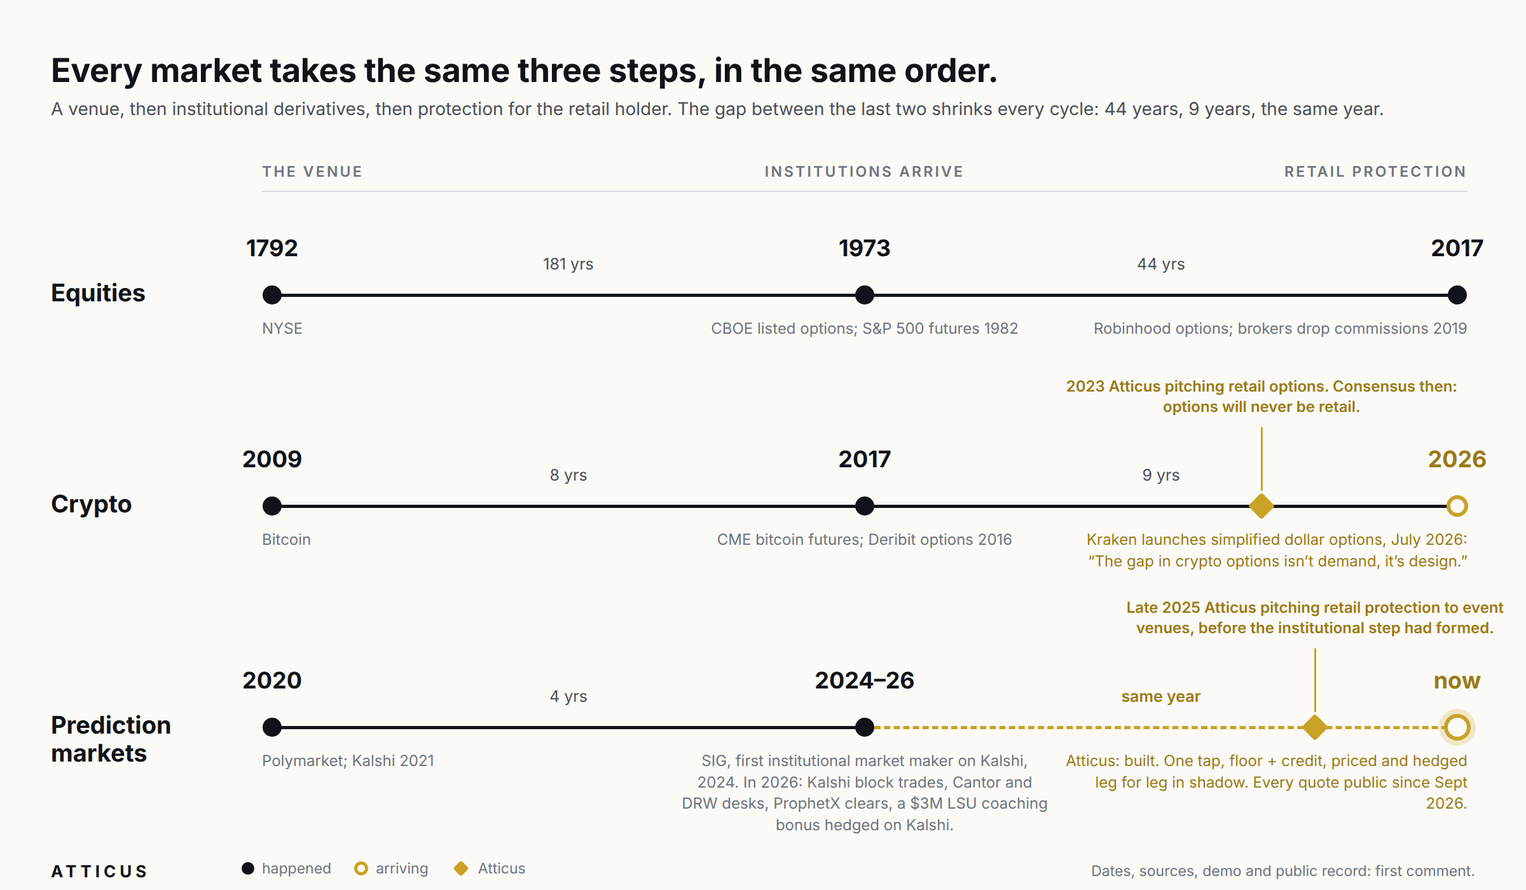
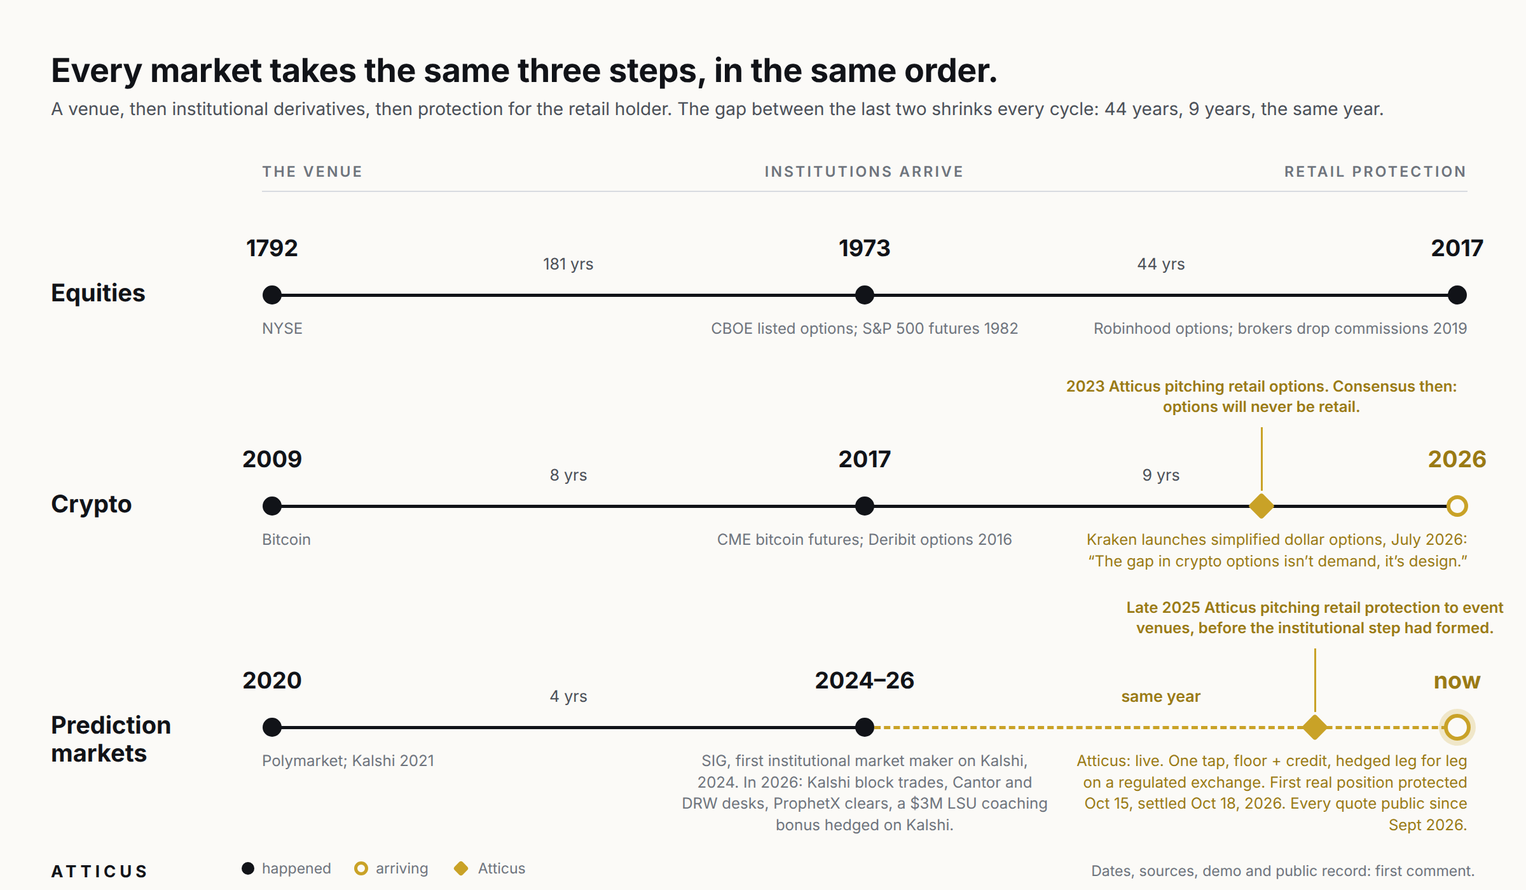
Timeline graphic: the now step reads live (first real position protected Oct 15, settled Oct 18); --dm build with a site footer for direct messages

Changed region(s): [[0.6875, 0.8293, 0.9688, 0.9521]]

diff --git a/docs/reports/submission/linkedin/timeline_portrait_dm.html b/docs/reports/submission/linkedin/timeline_portrait_dm.html
@@ -1,0 +1,93 @@
+<!doctype html>
+<html lang="en"><head><meta charset="utf-8" /><title>Every market takes the same three steps, in the same order.</title>
+<style>
+*{box-sizing:border-box}
+html,body{margin:0;padding:0}
+body{width:1080px;height:1350px;background:#FBFAF7;color:#111318;font-family:Inter,"Helvetica Neue",Helvetica,Arial,sans-serif;overflow:hidden}
+.abs{position:absolute}
+.title{font-size:33.8px;font-weight:700;letter-spacing:-.2px;line-height:1.2}
+.subtitle{font-size:18.2px;color:#4B5058;line-height:1.4}
+.hdr{font-size:15.0px;font-weight:600;letter-spacing:2.1px;color:#6E747D;text-transform:uppercase;white-space:nowrap}
+.hrule{height:1px;background:#D8DBE0}
+.rowname{font-size:24.7px;font-weight:700;line-height:1.15}
+.line{height:3.2px;background:#111318;border-radius:2px}
+.dash{height:0;border-top:3.2px dashed #C9A227}
+.dot{width:19.5px;height:19.5px;border-radius:50%;background:#111318}
+.ring{width:22.1px;height:22.1px;border-radius:50%;background:#FBFAF7;border:3.9px solid #C9A227}
+.ring.now{width:27.3px;height:27.3px;box-shadow:0 0 0 5.2px rgba(201,162,39,.22)}
+.diamond{width:19.5px;height:19.5px;background:#C9A227;transform:rotate(45deg);border-radius:2px}
+.year{font-size:23.4px;font-weight:700;white-space:nowrap;line-height:1}
+.year.gold{color:#9A7A14}
+.gap{font-size:16.2px;color:#4B5058;white-space:nowrap;line-height:1}
+.gap.gold{color:#9A7A14;font-weight:600}
+.sub{font-size:15.6px;color:#6E747D;line-height:1.4}
+.sub.gold{color:#9A7A14}
+.callout{font-size:15.6px;font-weight:600;color:#9A7A14;line-height:1.35}
+.vline{width:2.0px;background:#C9A227}
+.foot{font-size:15.0px;color:#6E747D;white-space:nowrap}
+.wordmark{font-size:16.9px;font-weight:800;letter-spacing:3.9px;color:#111318}
+.legend{display:flex;gap:23.4px;align-items:center;font-size:15.0px;color:#6E747D;white-space:nowrap}
+.legend span{display:inline-flex;align-items:center;gap:7.8px}
+.legend .dot,.legend .ring,.legend .diamond{position:static;display:inline-block}
+.legend .dot{width:13.0px;height:13.0px}
+.legend .ring{width:14.3px;height:14.3px;border-width:3.2px}
+.legend .diamond{width:11.7px;height:11.7px;margin:0 3.9px}
+</style></head>
+<body><div class="abs title" style="left:56.0px;top:56.0px;width:968.0px;">Every market takes the same three steps, in the same order.</div>
+<div class="abs subtitle" style="left:56.0px;top:150.0px;width:968.0px;">A venue, then institutional derivatives, then protection for the retail holder. The gap between the last two shrinks every cycle: 44 years, 9 years, the same year.</div>
+<div class="abs hdr" style="left:102.0px;top:262.0px;width:240.0px;text-align:left;">THE VENUE</div>
+<div class="abs hdr" style="left:405.0px;top:262.0px;width:270.0px;text-align:center;">INSTITUTIONS ARRIVE</div>
+<div class="abs hdr" style="left:718.0px;top:262.0px;width:260.0px;text-align:right;">RETAIL PROTECTION</div>
+<div class="abs hrule" style="left:102.0px;top:290.6px;width:876.0px;"></div>
+<div class="abs rowname" style="left:56.0px;top:335.4px;width:780.0px;">Equities</div>
+<div class="abs line" style="left:110.0px;top:453.4px;width:430.0px;"></div>
+<div class="abs line" style="left:540.0px;top:453.4px;width:430.0px;"></div>
+<div class="abs gap" style="left:221.0px;top:416.0px;width:208.0px;text-align:center;">181 yrs</div>
+<div class="abs gap" style="left:651.0px;top:416.0px;width:208.0px;text-align:center;">44 yrs</div>
+<div class="abs dot" style="left:100.2px;top:445.2px;"></div>
+<div class="abs year" style="left:-20.0px;top:395.2px;width:260.0px;text-align:center;">1792</div>
+<div class="abs sub" style="left:102.0px;top:478.4px;width:240.0px;text-align:left;">NYSE</div>
+<div class="abs dot" style="left:530.2px;top:445.2px;"></div>
+<div class="abs year" style="left:410.0px;top:395.2px;width:260.0px;text-align:center;">1973</div>
+<div class="abs sub" style="left:405.0px;top:478.4px;width:270.0px;text-align:center;">CBOE listed options; S&amp;P 500 futures 1982</div>
+<div class="abs dot" style="left:960.2px;top:445.2px;"></div>
+<div class="abs year" style="left:840.0px;top:395.2px;width:260.0px;text-align:center;">2017</div>
+<div class="abs sub" style="left:718.0px;top:478.4px;width:260.0px;text-align:right;">Robinhood options; brokers drop commissions 2019</div>
+<div class="abs rowname" style="left:56.0px;top:660.4px;width:780.0px;">Crypto</div>
+<div class="abs line" style="left:110.0px;top:778.4px;width:430.0px;"></div>
+<div class="abs line" style="left:540.0px;top:778.4px;width:430.0px;"></div>
+<div class="abs gap" style="left:221.0px;top:741.0px;width:208.0px;text-align:center;">8 yrs</div>
+<div class="abs gap" style="left:651.0px;top:741.0px;width:208.0px;text-align:center;">9 yrs</div>
+<div class="abs diamond" style="left:818.4px;top:770.2px;"></div>
+<div class="abs vline" style="left:827.1px;top:699.4px;height:65.0px;"></div>
+<div class="abs callout" style="left:678.1px;top:647.4px;width:300.0px;text-align:center;">2023  Atticus pitching retail options. Consensus then: options will never be retail.</div>
+<div class="abs dot" style="left:100.2px;top:770.2px;"></div>
+<div class="abs year" style="left:-20.0px;top:720.2px;width:260.0px;text-align:center;">2009</div>
+<div class="abs sub" style="left:102.0px;top:803.4px;width:240.0px;text-align:left;">Bitcoin</div>
+<div class="abs dot" style="left:530.2px;top:770.2px;"></div>
+<div class="abs year" style="left:410.0px;top:720.2px;width:260.0px;text-align:center;">2017</div>
+<div class="abs sub" style="left:405.0px;top:803.4px;width:270.0px;text-align:center;">CME bitcoin futures; Deribit options 2016</div>
+<div class="abs ring" style="left:959.0px;top:769.0px;"></div>
+<div class="abs year gold" style="left:840.0px;top:720.2px;width:260.0px;text-align:center;">2026</div>
+<div class="abs sub gold" style="left:718.0px;top:803.4px;width:260.0px;text-align:right;">Kraken launches simplified dollar options, July 2026: “The gap in crypto options isn’t demand, it’s design.”</div>
+<div class="abs rowname" style="left:56.0px;top:985.4px;width:780.0px;">Prediction markets</div>
+<div class="abs line" style="left:110.0px;top:1103.4px;width:430.0px;"></div>
+<div class="abs dash" style="left:540.0px;top:1103.4px;width:430.0px;"></div>
+<div class="abs gap" style="left:221.0px;top:1066.0px;width:208.0px;text-align:center;">4 yrs</div>
+<div class="abs gap gold" style="left:651.0px;top:1066.0px;width:208.0px;text-align:center;">same year</div>
+<div class="abs diamond" style="left:857.0px;top:1095.2px;"></div>
+<div class="abs vline" style="left:865.8px;top:1024.4px;height:65.0px;"></div>
+<div class="abs callout" style="left:716.8px;top:972.4px;width:300.0px;text-align:center;">Late 2025  Atticus pitching retail protection to event venues, before the institutional step had formed.</div>
+<div class="abs dot" style="left:100.2px;top:1095.2px;"></div>
+<div class="abs year" style="left:-20.0px;top:1045.2px;width:260.0px;text-align:center;">2020</div>
+<div class="abs sub" style="left:102.0px;top:1128.4px;width:240.0px;text-align:left;">Polymarket; Kalshi 2021</div>
+<div class="abs dot" style="left:530.2px;top:1095.2px;"></div>
+<div class="abs year" style="left:410.0px;top:1045.2px;width:260.0px;text-align:center;">2024–26</div>
+<div class="abs sub" style="left:405.0px;top:1128.4px;width:270.0px;text-align:center;">SIG, first institutional market maker on Kalshi, 2024. In 2026: Kalshi block trades, Cantor and DRW desks, ProphetX clears, a $3M LSU coaching bonus hedged on Kalshi.</div>
+<div class="abs ring now" style="left:956.4px;top:1091.3px;"></div>
+<div class="abs year gold" style="left:840.0px;top:1045.2px;width:260.0px;text-align:center;">now</div>
+<div class="abs sub gold" style="left:718.0px;top:1128.4px;width:260.0px;text-align:right;">Atticus: live. One tap, floor + credit, hedged leg for leg on a regulated exchange. First real position protected Oct 15, settled Oct 18, 2026. Every quote public since Sept 2026.</div>
+<div class="abs wordmark" style="left:56.0px;top:1300.0px;width:390.0px;">ATTICUS</div>
+<div class="abs legend" style="left:595.0px;top:1297.4px;width:429.0px;justify-content:flex-end;"><span><i class="dot"></i>happened</span><span><i class="ring"></i>arriving</span><span><i class="diamond"></i>Atticus</span></div>
+<div class="abs foot" style="left:296.0px;top:1266.2px;width:728.0px;text-align:right;">Dates, sources, the live clip and the public record: event.earnandprotect.xyz</div>
+</body></html>

diff --git a/docs/reports/submission/linkedin/timeline_landscape_dm.html b/docs/reports/submission/linkedin/timeline_landscape_dm.html
@@ -1,0 +1,93 @@
+<!doctype html>
+<html lang="en"><head><meta charset="utf-8" /><title>Every market takes the same three steps, in the same order.</title>
+<style>
+*{box-sizing:border-box}
+html,body{margin:0;padding:0}
+body{width:1200px;height:700px;background:#FBFAF7;color:#111318;font-family:Inter,"Helvetica Neue",Helvetica,Arial,sans-serif;overflow:hidden}
+.abs{position:absolute}
+.title{font-size:26.0px;font-weight:700;letter-spacing:-.2px;line-height:1.2}
+.subtitle{font-size:14.0px;color:#4B5058;line-height:1.4}
+.hdr{font-size:11.5px;font-weight:600;letter-spacing:1.6px;color:#6E747D;text-transform:uppercase;white-space:nowrap}
+.hrule{height:1px;background:#D8DBE0}
+.rowname{font-size:19.0px;font-weight:700;line-height:1.15}
+.line{height:2.5px;background:#111318;border-radius:2px}
+.dash{height:0;border-top:2.5px dashed #C9A227}
+.dot{width:15.0px;height:15.0px;border-radius:50%;background:#111318}
+.ring{width:17.0px;height:17.0px;border-radius:50%;background:#FBFAF7;border:3.0px solid #C9A227}
+.ring.now{width:21.0px;height:21.0px;box-shadow:0 0 0 4.0px rgba(201,162,39,.22)}
+.diamond{width:15.0px;height:15.0px;background:#C9A227;transform:rotate(45deg);border-radius:2px}
+.year{font-size:18.0px;font-weight:700;white-space:nowrap;line-height:1}
+.year.gold{color:#9A7A14}
+.gap{font-size:12.5px;color:#4B5058;white-space:nowrap;line-height:1}
+.gap.gold{color:#9A7A14;font-weight:600}
+.sub{font-size:12.0px;color:#6E747D;line-height:1.4}
+.sub.gold{color:#9A7A14}
+.callout{font-size:12.0px;font-weight:600;color:#9A7A14;line-height:1.35}
+.vline{width:1.5px;background:#C9A227}
+.foot{font-size:11.5px;color:#6E747D;white-space:nowrap}
+.wordmark{font-size:13.0px;font-weight:800;letter-spacing:3.0px;color:#111318}
+.legend{display:flex;gap:18.0px;align-items:center;font-size:11.5px;color:#6E747D;white-space:nowrap}
+.legend span{display:inline-flex;align-items:center;gap:6.0px}
+.legend .dot,.legend .ring,.legend .diamond{position:static;display:inline-block}
+.legend .dot{width:10.0px;height:10.0px}
+.legend .ring{width:11.0px;height:11.0px;border-width:2.5px}
+.legend .diamond{width:9.0px;height:9.0px;margin:0 3.0px}
+</style></head>
+<body><div class="abs title" style="left:40.0px;top:40.0px;width:1120.0px;">Every market takes the same three steps, in the same order.</div>
+<div class="abs subtitle" style="left:40.0px;top:76.0px;width:1120.0px;">A venue, then institutional derivatives, then protection for the retail holder. The gap between the last two shrinks every cycle: 44 years, 9 years, the same year.</div>
+<div class="abs hdr" style="left:206.0px;top:128.0px;width:290.0px;text-align:left;">THE VENUE</div>
+<div class="abs hdr" style="left:535.0px;top:128.0px;width:290.0px;text-align:center;">INSTITUTIONS ARRIVE</div>
+<div class="abs hdr" style="left:836.0px;top:128.0px;width:318.0px;text-align:right;">RETAIL PROTECTION</div>
+<div class="abs hrule" style="left:206.0px;top:150.0px;width:948.0px;"></div>
+<div class="abs rowname" style="left:40.0px;top:220.0px;width:144.0px;">Equities</div>
+<div class="abs line" style="left:214.0px;top:230.8px;width:466.0px;"></div>
+<div class="abs line" style="left:680.0px;top:230.8px;width:466.0px;"></div>
+<div class="abs gap" style="left:367.0px;top:202.0px;width:160.0px;text-align:center;">181 yrs</div>
+<div class="abs gap" style="left:833.0px;top:202.0px;width:160.0px;text-align:center;">44 yrs</div>
+<div class="abs dot" style="left:206.5px;top:224.5px;"></div>
+<div class="abs year" style="left:114.0px;top:186.0px;width:200.0px;text-align:center;">1792</div>
+<div class="abs sub" style="left:206.0px;top:250.0px;width:290.0px;text-align:left;">NYSE</div>
+<div class="abs dot" style="left:672.5px;top:224.5px;"></div>
+<div class="abs year" style="left:580.0px;top:186.0px;width:200.0px;text-align:center;">1973</div>
+<div class="abs sub" style="left:535.0px;top:250.0px;width:290.0px;text-align:center;">CBOE listed options; S&amp;P 500 futures 1982</div>
+<div class="abs dot" style="left:1138.5px;top:224.5px;"></div>
+<div class="abs year" style="left:1046.0px;top:186.0px;width:200.0px;text-align:center;">2017</div>
+<div class="abs sub" style="left:836.0px;top:250.0px;width:318.0px;text-align:right;">Robinhood options; brokers drop commissions 2019</div>
+<div class="abs rowname" style="left:40.0px;top:386.0px;width:144.0px;">Crypto</div>
+<div class="abs line" style="left:214.0px;top:396.8px;width:466.0px;"></div>
+<div class="abs line" style="left:680.0px;top:396.8px;width:466.0px;"></div>
+<div class="abs gap" style="left:367.0px;top:368.0px;width:160.0px;text-align:center;">8 yrs</div>
+<div class="abs gap" style="left:833.0px;top:368.0px;width:160.0px;text-align:center;">9 yrs</div>
+<div class="abs diamond" style="left:984.7px;top:390.5px;"></div>
+<div class="abs vline" style="left:991.5px;top:336.0px;height:50.0px;"></div>
+<div class="abs callout" style="left:827.2px;top:296.0px;width:330.0px;text-align:center;">2023  Atticus pitching retail options. Consensus then: options will never be retail.</div>
+<div class="abs dot" style="left:206.5px;top:390.5px;"></div>
+<div class="abs year" style="left:114.0px;top:352.0px;width:200.0px;text-align:center;">2009</div>
+<div class="abs sub" style="left:206.0px;top:416.0px;width:290.0px;text-align:left;">Bitcoin</div>
+<div class="abs dot" style="left:672.5px;top:390.5px;"></div>
+<div class="abs year" style="left:580.0px;top:352.0px;width:200.0px;text-align:center;">2017</div>
+<div class="abs sub" style="left:535.0px;top:416.0px;width:290.0px;text-align:center;">CME bitcoin futures; Deribit options 2016</div>
+<div class="abs ring" style="left:1137.5px;top:389.5px;"></div>
+<div class="abs year gold" style="left:1046.0px;top:352.0px;width:200.0px;text-align:center;">2026</div>
+<div class="abs sub gold" style="left:836.0px;top:416.0px;width:318.0px;text-align:right;">Kraken launches simplified dollar options, July 2026: “The gap in crypto options isn’t demand, it’s design.”</div>
+<div class="abs rowname" style="left:40.0px;top:560.0px;width:144.0px;">Prediction markets</div>
+<div class="abs line" style="left:214.0px;top:570.8px;width:466.0px;"></div>
+<div class="abs dash" style="left:680.0px;top:570.8px;width:466.0px;"></div>
+<div class="abs gap" style="left:367.0px;top:542.0px;width:160.0px;text-align:center;">4 yrs</div>
+<div class="abs gap gold" style="left:833.0px;top:542.0px;width:160.0px;text-align:center;">same year</div>
+<div class="abs diamond" style="left:1026.7px;top:564.5px;"></div>
+<div class="abs vline" style="left:1033.4px;top:510.0px;height:50.0px;"></div>
+<div class="abs callout" style="left:869.2px;top:470.0px;width:330.0px;text-align:center;">Late 2025  Atticus pitching retail protection to event venues, before the institutional step had formed.</div>
+<div class="abs dot" style="left:206.5px;top:564.5px;"></div>
+<div class="abs year" style="left:114.0px;top:526.0px;width:200.0px;text-align:center;">2020</div>
+<div class="abs sub" style="left:206.0px;top:590.0px;width:290.0px;text-align:left;">Polymarket; Kalshi 2021</div>
+<div class="abs dot" style="left:672.5px;top:564.5px;"></div>
+<div class="abs year" style="left:580.0px;top:526.0px;width:200.0px;text-align:center;">2024–26</div>
+<div class="abs sub" style="left:535.0px;top:590.0px;width:290.0px;text-align:center;">SIG, first institutional market maker on Kalshi, 2024. In 2026: Kalshi block trades, Cantor and DRW desks, ProphetX clears, a $3M LSU coaching bonus hedged on Kalshi.</div>
+<div class="abs ring now" style="left:1135.5px;top:561.5px;"></div>
+<div class="abs year gold" style="left:1046.0px;top:526.0px;width:200.0px;text-align:center;">now</div>
+<div class="abs sub gold" style="left:836.0px;top:590.0px;width:318.0px;text-align:right;">Atticus: live. One tap, floor + credit, hedged leg for leg on a regulated exchange. First real position protected Oct 15, settled Oct 18, 2026. Every quote public since Sept 2026.</div>
+<div class="abs wordmark" style="left:40.0px;top:678.0px;width:300.0px;">ATTICUS</div>
+<div class="abs legend" style="left:190.0px;top:676.0px;"><span><i class="dot"></i>happened</span><span><i class="ring"></i>arriving</span><span><i class="diamond"></i>Atticus</span></div>
+<div class="abs foot" style="left:600.0px;top:678.0px;width:560.0px;text-align:right;">Dates, sources, the live clip and the public record: event.earnandprotect.xyz</div>
+</body></html>

diff --git a/docs/reports/submission/linkedin/timeline_portrait.html b/docs/reports/submission/linkedin/timeline_portrait.html
@@ -86,7 +86,7 @@ body{width:1080px;height:1350px;background:#FBFAF7;color:#111318;font-family:Int
 <div class="abs sub" style="left:405.0px;top:1128.4px;width:270.0px;text-align:center;">SIG, first institutional market maker on Kalshi, 2024. In 2026: Kalshi block trades, Cantor and DRW desks, ProphetX clears, a $3M LSU coaching bonus hedged on Kalshi.</div>
 <div class="abs ring now" style="left:956.4px;top:1091.3px;"></div>
 <div class="abs year gold" style="left:840.0px;top:1045.2px;width:260.0px;text-align:center;">now</div>
-<div class="abs sub gold" style="left:718.0px;top:1128.4px;width:260.0px;text-align:right;">Atticus: built. One tap, floor + credit, priced and hedged leg for leg in shadow. Every quote public since Sept 2026.</div>
+<div class="abs sub gold" style="left:718.0px;top:1128.4px;width:260.0px;text-align:right;">Atticus: live. One tap, floor + credit, hedged leg for leg on a regulated exchange. First real position protected Oct 15, settled Oct 18, 2026. Every quote public since Sept 2026.</div>
 <div class="abs wordmark" style="left:56.0px;top:1300.0px;width:390.0px;">ATTICUS</div>
 <div class="abs legend" style="left:595.0px;top:1297.4px;width:429.0px;justify-content:flex-end;"><span><i class="dot"></i>happened</span><span><i class="ring"></i>arriving</span><span><i class="diamond"></i>Atticus</span></div>
 <div class="abs foot" style="left:296.0px;top:1266.2px;width:728.0px;text-align:right;">Dates, sources, demo and public record: first comment.</div>

diff --git a/docs/reports/submission/linkedin/timeline_landscape.html b/docs/reports/submission/linkedin/timeline_landscape.html
@@ -86,7 +86,7 @@ body{width:1200px;height:700px;background:#FBFAF7;color:#111318;font-family:Inte
 <div class="abs sub" style="left:535.0px;top:590.0px;width:290.0px;text-align:center;">SIG, first institutional market maker on Kalshi, 2024. In 2026: Kalshi block trades, Cantor and DRW desks, ProphetX clears, a $3M LSU coaching bonus hedged on Kalshi.</div>
 <div class="abs ring now" style="left:1135.5px;top:561.5px;"></div>
 <div class="abs year gold" style="left:1046.0px;top:526.0px;width:200.0px;text-align:center;">now</div>
-<div class="abs sub gold" style="left:836.0px;top:590.0px;width:318.0px;text-align:right;">Atticus: built. One tap, floor + credit, priced and hedged leg for leg in shadow. Every quote public since Sept 2026.</div>
+<div class="abs sub gold" style="left:836.0px;top:590.0px;width:318.0px;text-align:right;">Atticus: live. One tap, floor + credit, hedged leg for leg on a regulated exchange. First real position protected Oct 15, settled Oct 18, 2026. Every quote public since Sept 2026.</div>
 <div class="abs wordmark" style="left:40.0px;top:678.0px;width:300.0px;">ATTICUS</div>
 <div class="abs legend" style="left:190.0px;top:676.0px;"><span><i class="dot"></i>happened</span><span><i class="ring"></i>arriving</span><span><i class="diamond"></i>Atticus</span></div>
 <div class="abs foot" style="left:600.0px;top:678.0px;width:560.0px;text-align:right;">Dates, sources, demo and public record: first comment.</div>

diff --git a/docs/reports/submission/linkedin/build_timeline.py b/docs/reports/submission/linkedin/build_timeline.py
@@ -75,7 +75,7 @@ ROWS = [
             },
             {
                 "year": "now",
-                "sub": "Atticus: built. One tap, floor + credit, priced and hedged leg for leg in shadow. Every quote public since Sept 2026.",
+                "sub": "Atticus: live. One tap, floor + credit, hedged leg for leg on a regulated exchange. First real position protected Oct 15, settled Oct 18, 2026. Every quote public since Sept 2026.",
                 "kind": "now",
             },
         ],
@@ -89,6 +89,8 @@ ROWS = [
 LEGEND = [("dot", "happened"), ("ring", "arriving"), ("diamond", "Atticus")]
 FOOT_LEFT = "ATTICUS"
 FOOT_RIGHT = "Dates, sources, demo and public record: first comment."
+# a direct message has no first comment; the --dm build points at the site instead
+FOOT_RIGHT_DM = "Dates, sources, the live clip and the public record: event.earnandprotect.xyz"
 
 
 def esc(s: str) -> str:
@@ -285,8 +287,14 @@ def screenshot(html_path: Path, png_path: Path, w: int, h: int) -> None:
 
 
 def main() -> None:
+    global FOOT_RIGHT
+    dm = "--dm" in sys.argv
+    if dm:
+        FOOT_RIGHT = FOOT_RIGHT_DM
     for name, fn in (("timeline_landscape", landscape), ("timeline_portrait", portrait)):
         doc, w, h = fn()
+        if dm:
+            name += "_dm"
         html_path = HERE / f"{name}.html"
         html_path.write_text(doc, encoding="utf-8")
         screenshot(html_path, HERE / f"{name}.png", w, h)

diff --git a/docs/reports/submission/linkedin/POST.md b/docs/reports/submission/linkedin/POST.md
@@ -9,7 +9,7 @@ What to post, what to put in the first comment, and the five checks before posti
 | `timeline_portrait.png` | 2160x2700 (4:5). Post this one first; LinkedIn is mostly read on phones and 4:5 takes the most screen. |
 | `timeline_landscape.png` | 2400x1400. Second image in the same post, for desktop readers. |
 | `timeline_*.html` | The rendered sources. Open in a browser to proofread at any size. |
-| `build_timeline.py` | Data and layout. Change a date or a label there, run it, and both PNGs regenerate (headless Chrome, isolated profile). |
+| `build_timeline.py` | Data and layout. Change a date or a label there, run it, and both PNGs regenerate (headless Chrome, isolated profile). `--dm` writes `timeline_*_dm.png`, the same graphic with the footer pointing at the site instead of "first comment", for a direct message. |
 
 Rebuild from the repo root:
 
@@ -20,7 +20,7 @@ python3 docs/reports/submission/linkedin/build_timeline.py
 ## Before posting
 
 1. Open `https://atticus-event-shadow.onrender.com/` and read the numbers off the top of the page (events settled, floor saves, our P&L, take booked, gap). The post text below uses the 2026-10-09 17:35 UTC numbers; replace them with the morning's. The graphic has no count on it on purpose, so it does not go stale.
-2. The record page must still say "Live prices; nothing is bought." The graphic says "in shadow"; the two must agree.
+2. The graphic now says "Atticus: live … First real position protected Oct 15, settled Oct 18, 2026." Open `https://atticus-event-shadow.onrender.com/api/shadow` and confirm the lock position (`source: "lock"`, ticker `KXNFLGAME-26OCT18TENIND-IND`) is there and settled; the simulated positions are still marked as such on the page, and the two must agree.
 3. Open the demo `https://atticus-event-demo-cross-venue.onrender.com/` in a private window. No brand parameter, no slate key: this is the public link, and it must show the generic shell, never a partner's name.
 4. Confirm the two dates only you can confirm: that you were pitching retail options in 2023 and event protection in late 2025. The investor emails in the outreach playbook say "eighteen months ago we started building" (from August 2026, so early 2025). Pitching in 2023 and building from 2025 are compatible; be ready to say so in one sentence if asked.
 5. Put the links in the first comment, not the post body. Links in the body suppress reach. Do not name WagerWire or any listing anywhere; the email to Zach goes the same day.
@@ -31,7 +31,7 @@ python3 docs/reports/submission/linkedin/build_timeline.py
 >
 > We pitched the crypto retail step in 2023, when the consensus was that options would never be retail. We pitched the event retail step in late 2025, before the institutional step had formed. Both arrived on schedule.
 >
-> So we built the third step for event markets: one tap on a position, a floor and a credit, hedged leg for leg on the venue that lists the other side. It runs in shadow on live prices, and every quote has been public since September 12. As of this morning: 695 events settled, 297 floor saves, and our P&L equals the take we booked to the cent, because the hedge carries no outcome risk.
+> So we built the third step for event markets: one tap on a position, a floor and a credit, hedged leg for leg on the venue that lists the other side. Every quote has been public since September 12, simulated at live prices; on October 15 the first real position was locked and hedged on a regulated exchange, and on October 18 it settled: $13.85 to the holder instead of $0. As of this morning: 695 events settled, 297 floor saves, and our P&L equals the take we booked to the cent, because the hedge carries no outcome risk.
 >
 > Dates, sources, the demo and the public record are in the first comment.
 
